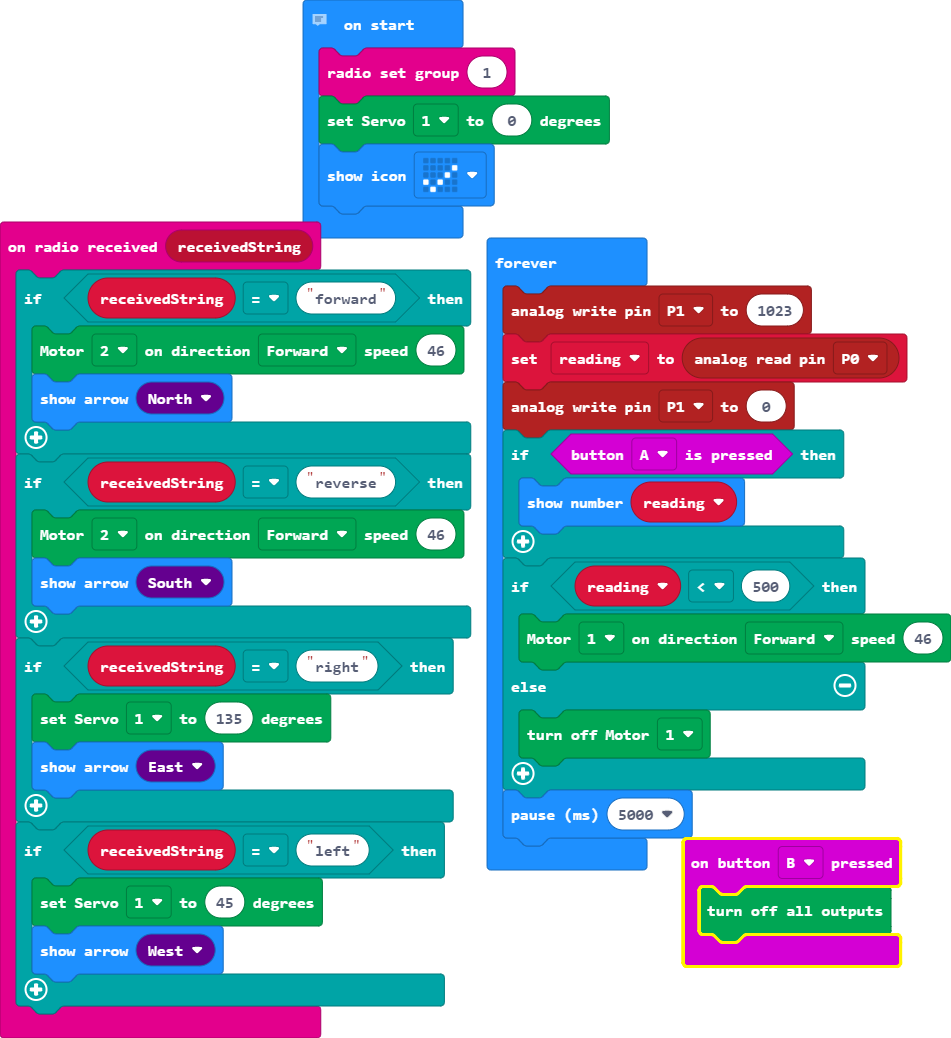
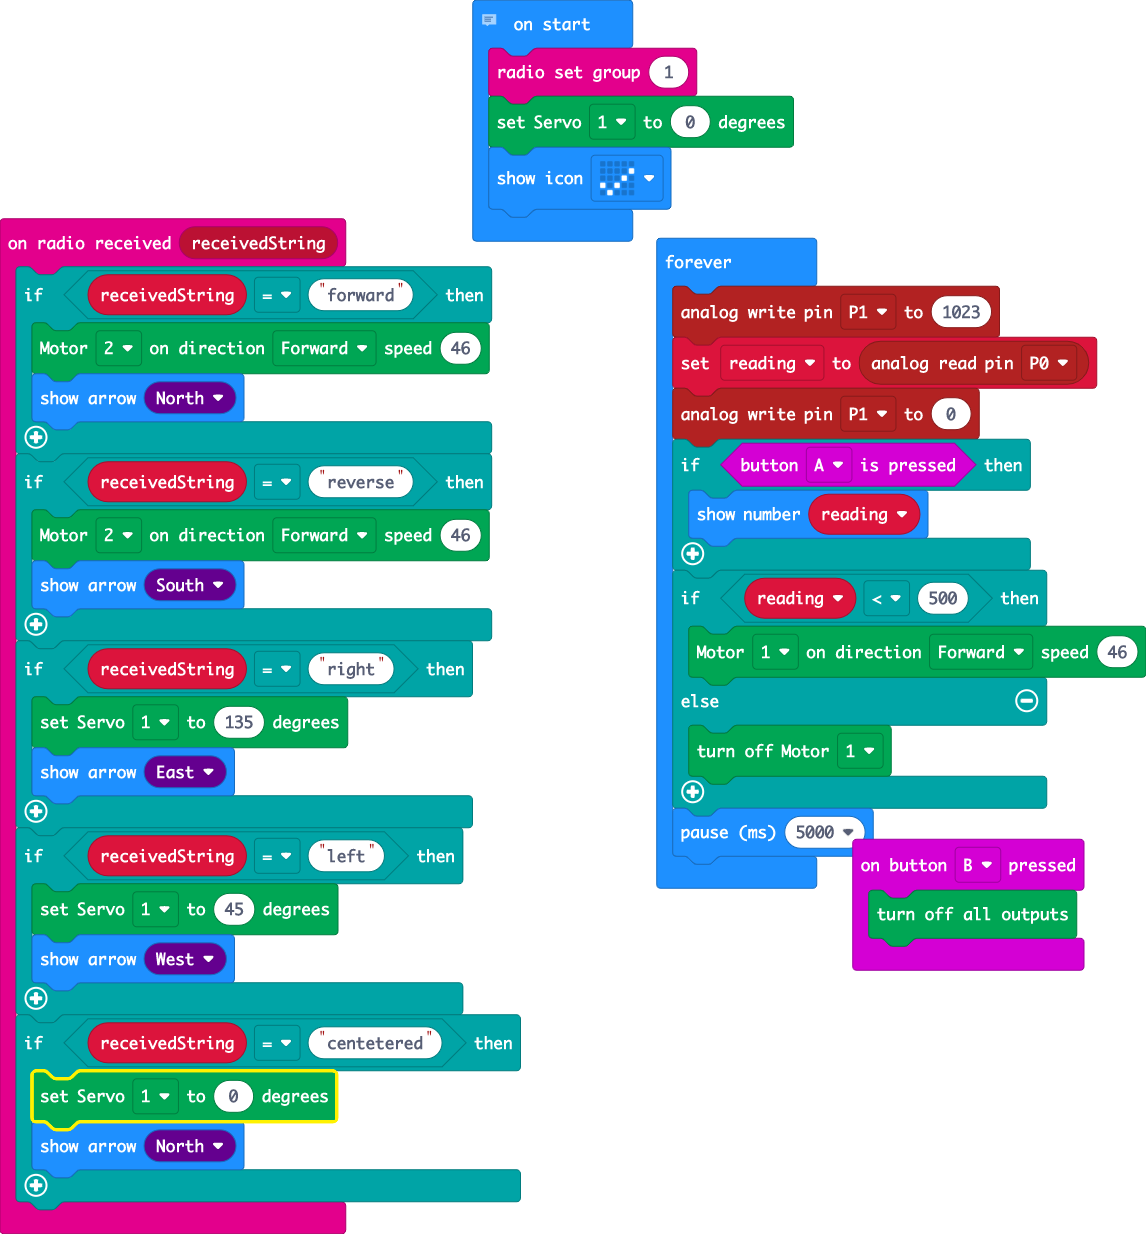
Update main.blocks, main.ts

diff --git a/main.ts b/main.ts
@@ -15,6 +15,10 @@ radio.onReceivedString(function (receivedString) {
         Kitronik_Robotics_Board.servoWrite(Kitronik_Robotics_Board.Servos.Servo1, 45)
         basic.showArrow(ArrowNames.West)
     }
+    if (receivedString == "centetered") {
+        Kitronik_Robotics_Board.servoWrite(Kitronik_Robotics_Board.Servos.Servo1, 0)
+        basic.showArrow(ArrowNames.North)
+    }
 })
 input.onButtonPressed(Button.B, function () {
     Kitronik_Robotics_Board.allOff()
